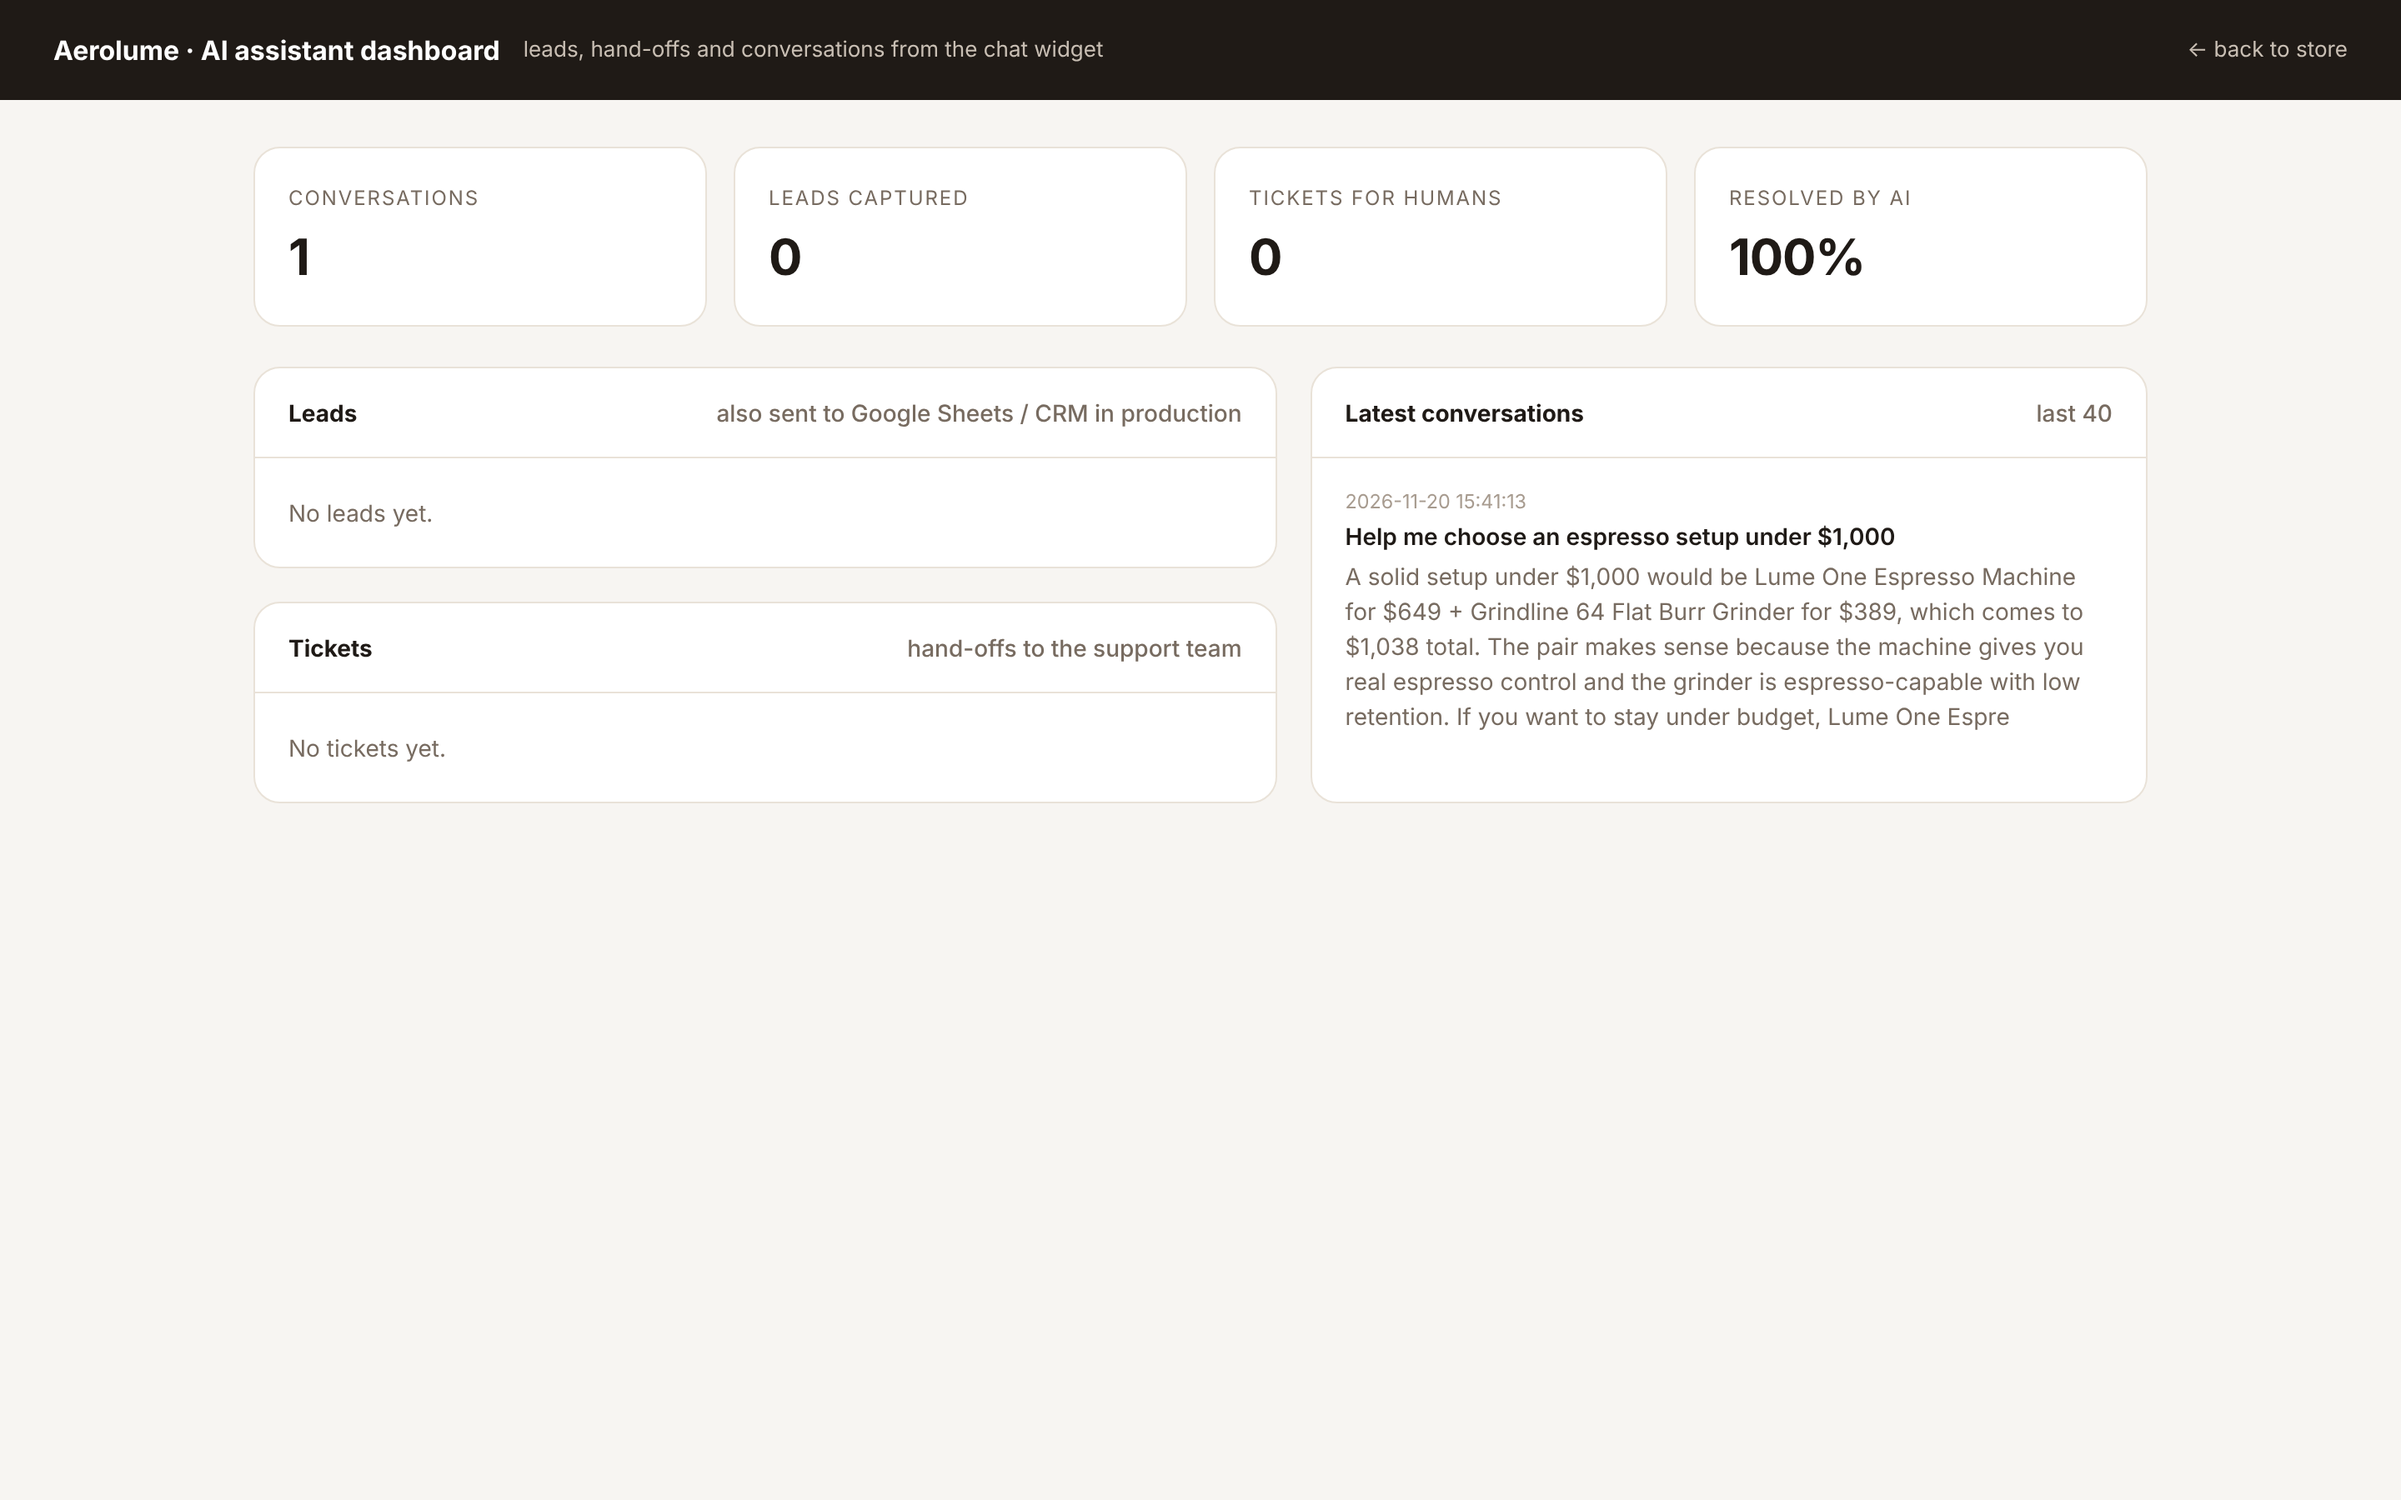
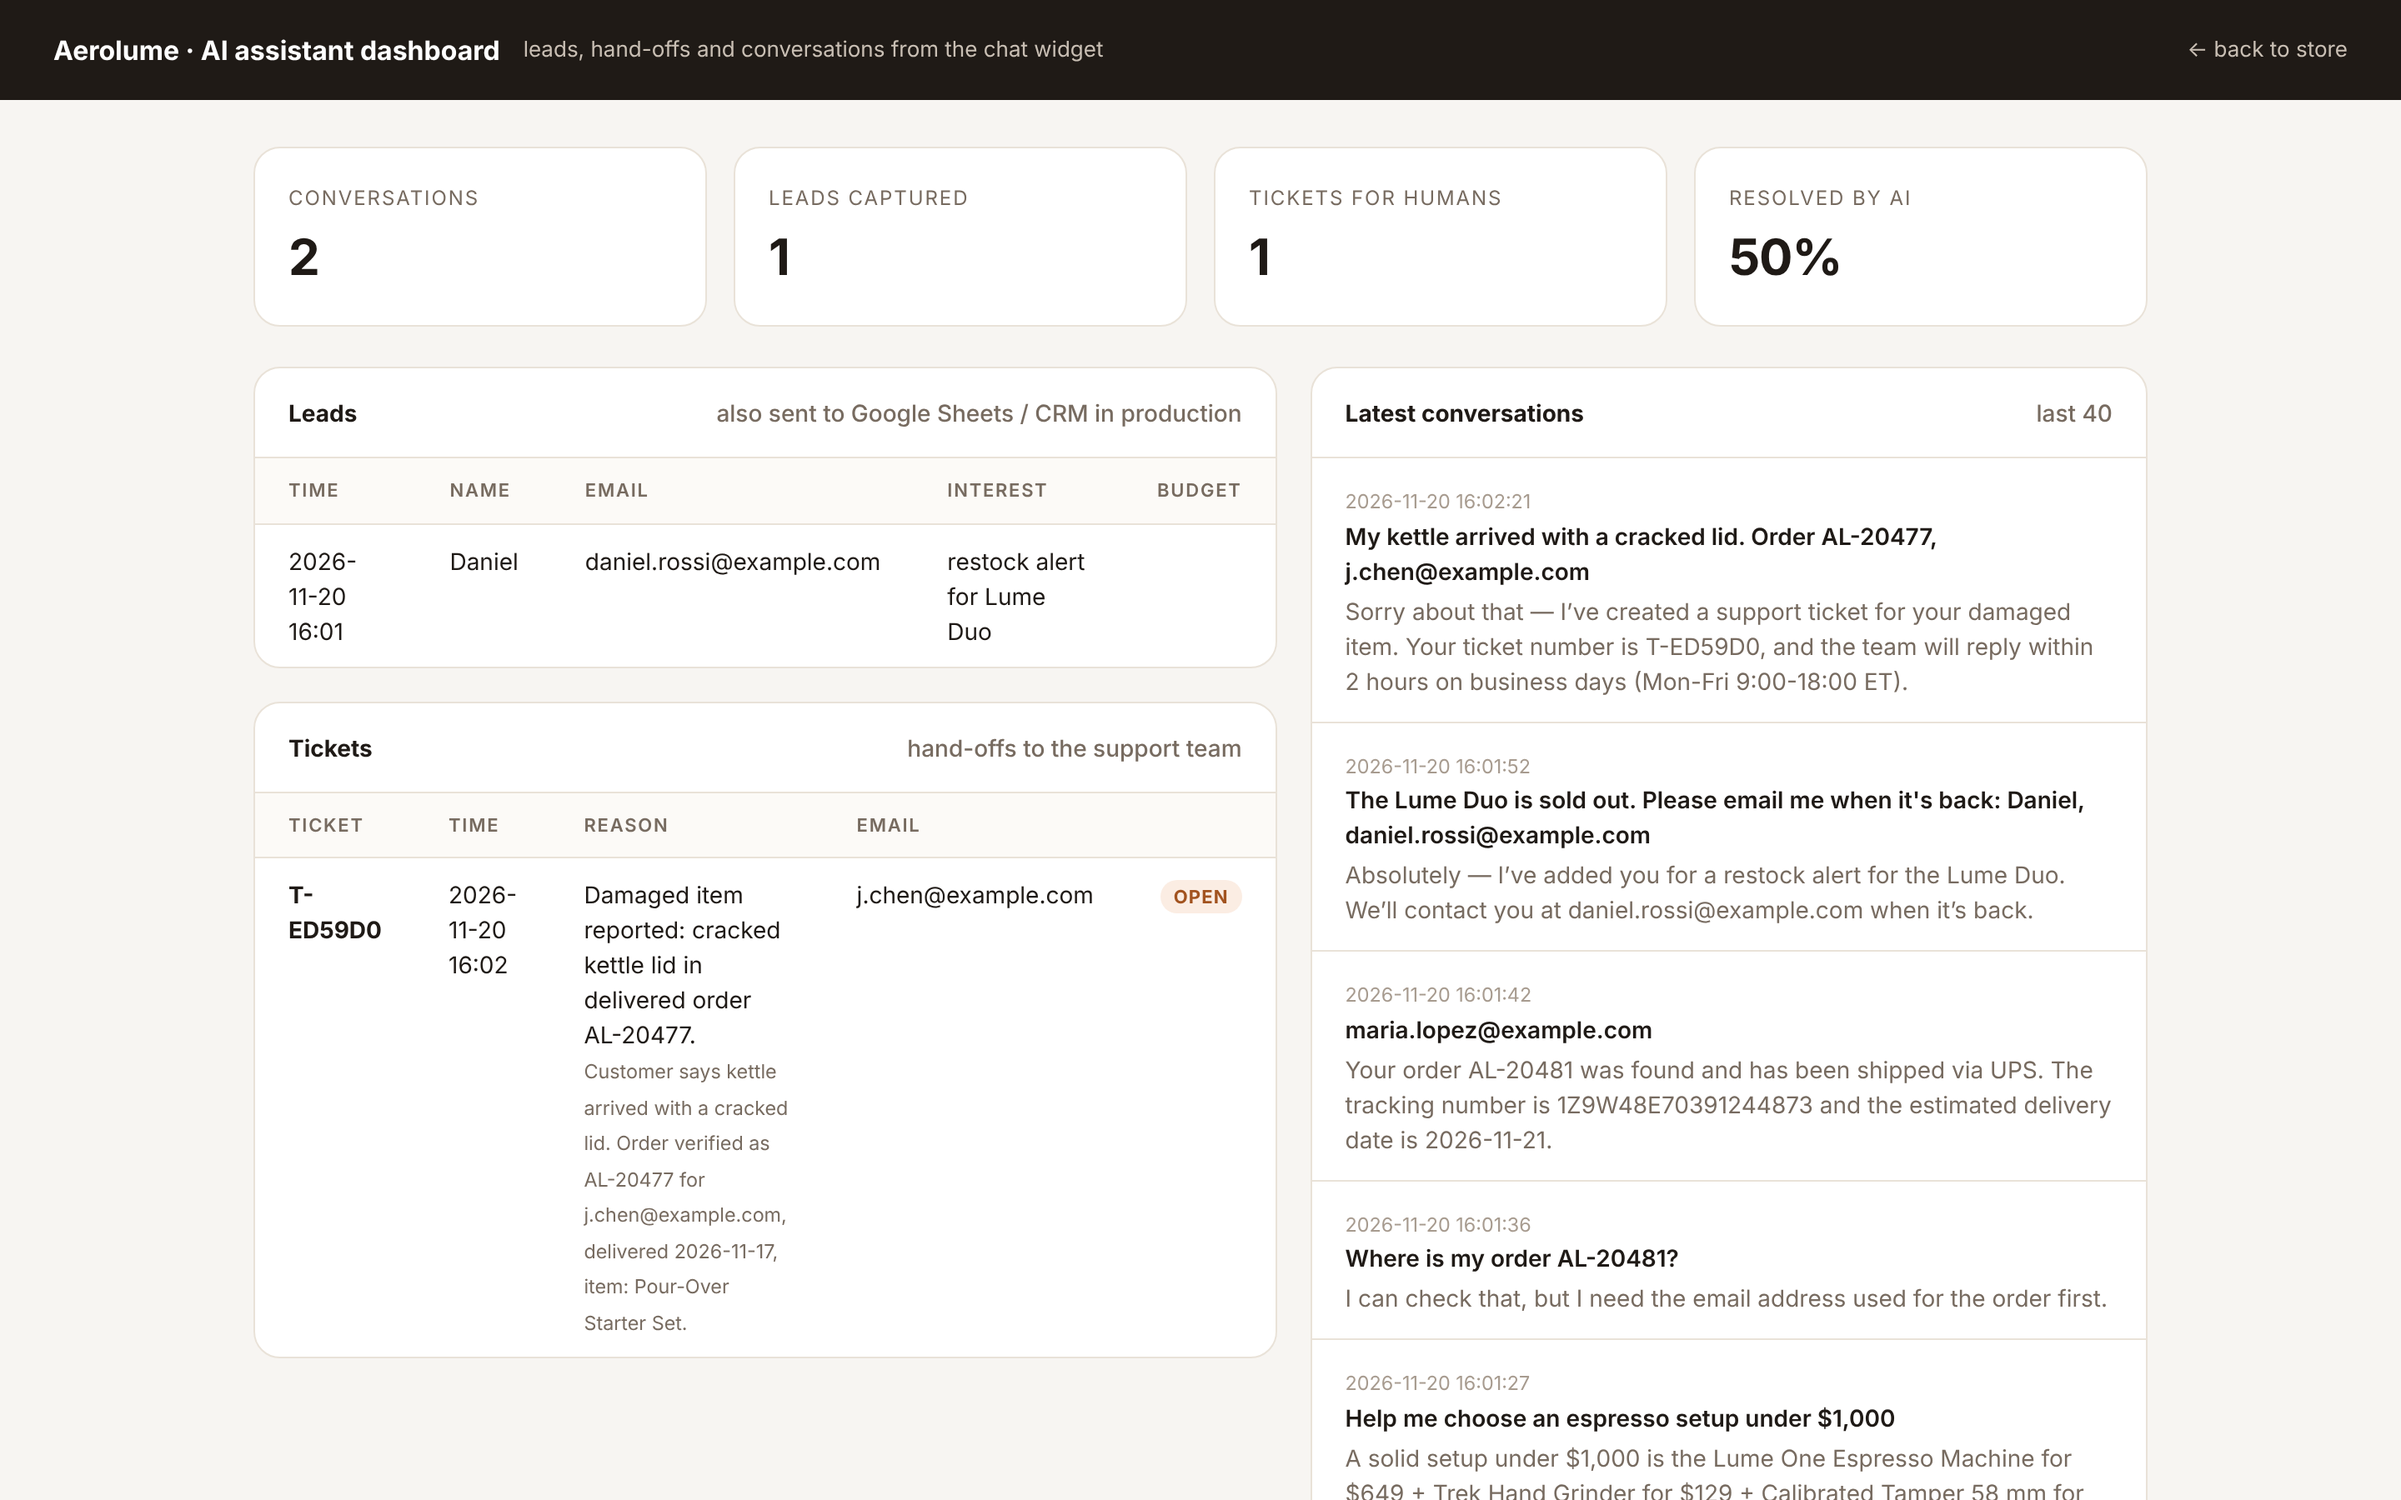
Group repeated tool status lines in the widget; refresh screenshots

diff --git a/static/store.html b/static/store.html
@@ -183,7 +183,7 @@ async function send(text){
       while((i=buf.indexOf('\n\n'))>=0){const blk=buf.slice(0,i);buf=buf.slice(i+2);
         const ev=(blk.match(/^event: (.*)$/m)||[])[1],data=JSON.parse((blk.match(/^data: (.*)$/m)||[])[1]||'{}');
         if(typing.parentNode)typing.remove();
-        if(ev==='tool'){if(toolEl)toolEl.classList.add('ok');toolEl=document.createElement('div');toolEl.className='tool';toolEl.textContent=data.label+'…';wb.appendChild(toolEl);bot=null;acc=''}
+        if(ev==='tool'){if(toolEl&&toolEl.dataset.l===data.label&&toolEl===wb.lastElementChild){toolEl.classList.remove('ok')}else{if(toolEl)toolEl.classList.add('ok');toolEl=document.createElement('div');toolEl.className='tool';toolEl.dataset.l=data.label;toolEl.textContent=data.label+'…';wb.appendChild(toolEl)}bot=null;acc=''}
         else if(ev==='products'){if(toolEl)toolEl.classList.add('ok');wb.appendChild(prodCards(data))}
         else if(ev==='order'){if(toolEl)toolEl.classList.add('ok');wb.appendChild(orderCard(data))}
         else if(ev==='notice'){if(toolEl)toolEl.classList.add('ok');const n=document.createElement('div');n.className='note';n.textContent=data.text;wb.appendChild(n)}
